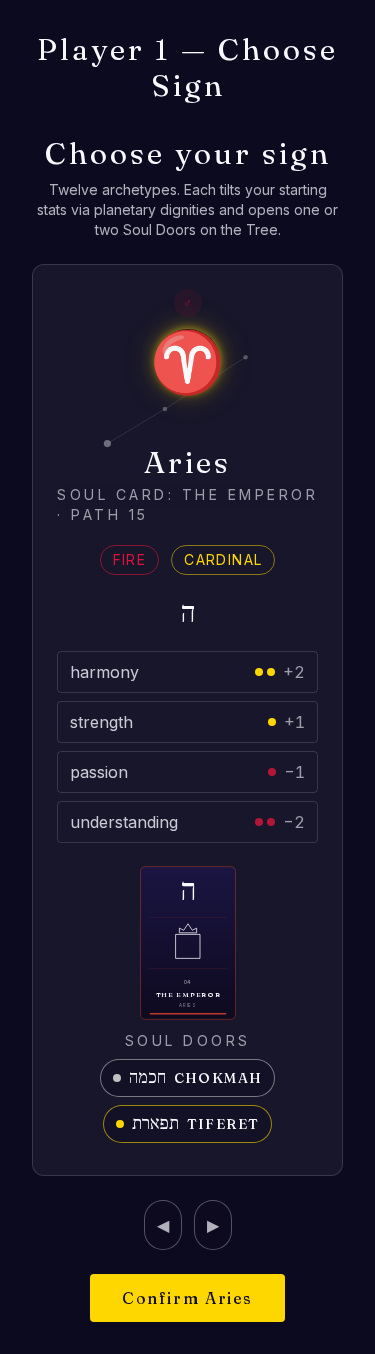
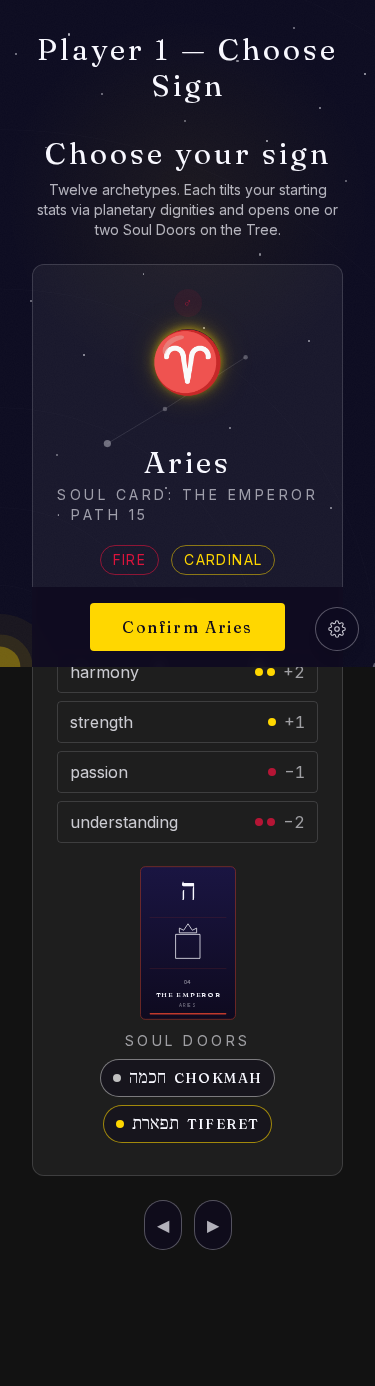
fix(e2e): update sound spec + play VR baselines for dual-toggle UX
sound.spec.ts: the old test queried a single "toggle sound" switch
and checked the old `sok.soundEnabled` key. After #76 split this into
SFX (default ON) + Music (default OFF) with `sok.sfxEnabled` /
`sok.musicEnabled`, the assertions now match the two named switches
and their new storage keys.

play-{desktop,tablet,mobile} baselines: the sticky Confirm button
footer added `py-4` (32px) to the ZodiacSignPicker, making the /play
landing page 32px taller than the previous baseline. Regenerated
locally with `playwright test --update-snapshots`.

diff --git a/e2e/sound.spec.ts b/e2e/sound.spec.ts
@@ -1,14 +1,16 @@
 import { test, expect } from '@playwright/test';
 
 /**
- * e2e for the sound design system (#321).
+ * e2e for the sound design system (#321, #76).
  *
  * Pins the structural contract:
  *   - The settings cog button is reachable on `/play`.
- *   - The popover opens, exposes the Sound switch + reduced-motion
- *     status, and closes via Esc.
- *   - The Sound toggle persists to `localStorage` under the agreed
- *     key so a reload preserves the user's choice.
+ *   - The popover opens, exposes two separate switches — "Sound
+ *     effects" (default ON) and "Music" (default OFF) — plus the
+ *     reduced-motion status row, and closes via Esc.
+ *   - Both toggles persist to `localStorage` under the agreed keys
+ *     (`sok.sfxEnabled` / `sok.musicEnabled`) so a reload preserves
+ *     the user's choice.
  *
  * Driving an actual audio playback through Playwright is brittle —
  * autoplay policy, decoded-buffer state, browser-specific timing —
@@ -23,7 +25,7 @@ test.skip(
   'Set PLAYWRIGHT_BROWSERS_INSTALLED=1 after `pnpm exec playwright install chromium`',
 );
 
-test('settings cog opens, toggles sound, persists to localStorage, closes via Esc', async ({
+test('settings cog opens, toggles SFX + Music independently, persists to localStorage, closes via Esc', async ({
   page,
 }) => {
   // Walk the standard hot-seat onboarding so we land on the play
@@ -78,21 +80,28 @@ test('settings cog opens, toggles sound, persists to localStorage, closes via Es
   await expect(cog).toBeVisible();
   await expect(page.getByRole('dialog')).toHaveCount(0);
 
-  // Open. Switch is OFF (the design default — auto-playing audio is
-  // a UX trap; opt-in only).
+  // Open. SFX is ON by default (gesture-gated audio); Music is OFF
+  // (ambient auto-play is hostile by default).
   await cog.click();
   const dialog = page.getByRole('dialog');
   await expect(dialog).toBeVisible();
-  const soundSwitch = dialog.getByRole('switch', { name: /toggle sound/i });
-  await expect(soundSwitch).toHaveAttribute('aria-checked', 'false');
 
-  // Toggle ON.
-  await soundSwitch.click();
-  await expect(soundSwitch).toHaveAttribute('aria-checked', 'true');
+  const sfxSwitch = dialog.getByRole('switch', { name: /sound effects/i });
+  const musicSwitch = dialog.getByRole('switch', { name: /music/i });
+  await expect(sfxSwitch).toHaveAttribute('aria-checked', 'true');
+  await expect(musicSwitch).toHaveAttribute('aria-checked', 'false');
 
-  // localStorage persisted under the agreed key.
-  const stored = await page.evaluate(() => window.localStorage.getItem('sok.soundEnabled'));
-  expect(stored).toBe('true');
+  // Toggle SFX OFF, Music ON.
+  await sfxSwitch.click();
+  await expect(sfxSwitch).toHaveAttribute('aria-checked', 'false');
+  await musicSwitch.click();
+  await expect(musicSwitch).toHaveAttribute('aria-checked', 'true');
+
+  // Both persist to localStorage under the new keys (#76).
+  const sfxStored = await page.evaluate(() => window.localStorage.getItem('sok.sfxEnabled'));
+  const musicStored = await page.evaluate(() => window.localStorage.getItem('sok.musicEnabled'));
+  expect(sfxStored).toBe('false');
+  expect(musicStored).toBe('true');
 
   // Reduced motion is read-only and reflects the system setting
   // (Playwright's default browser reports prefers-reduced-motion: